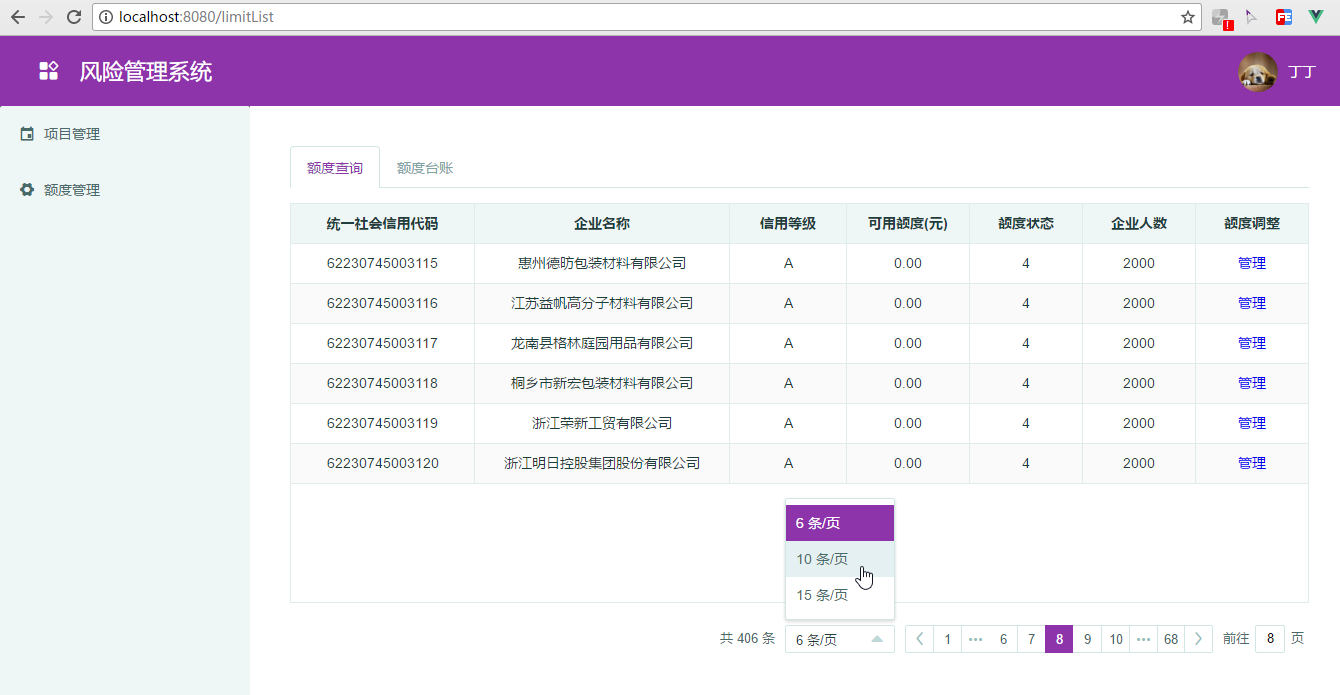
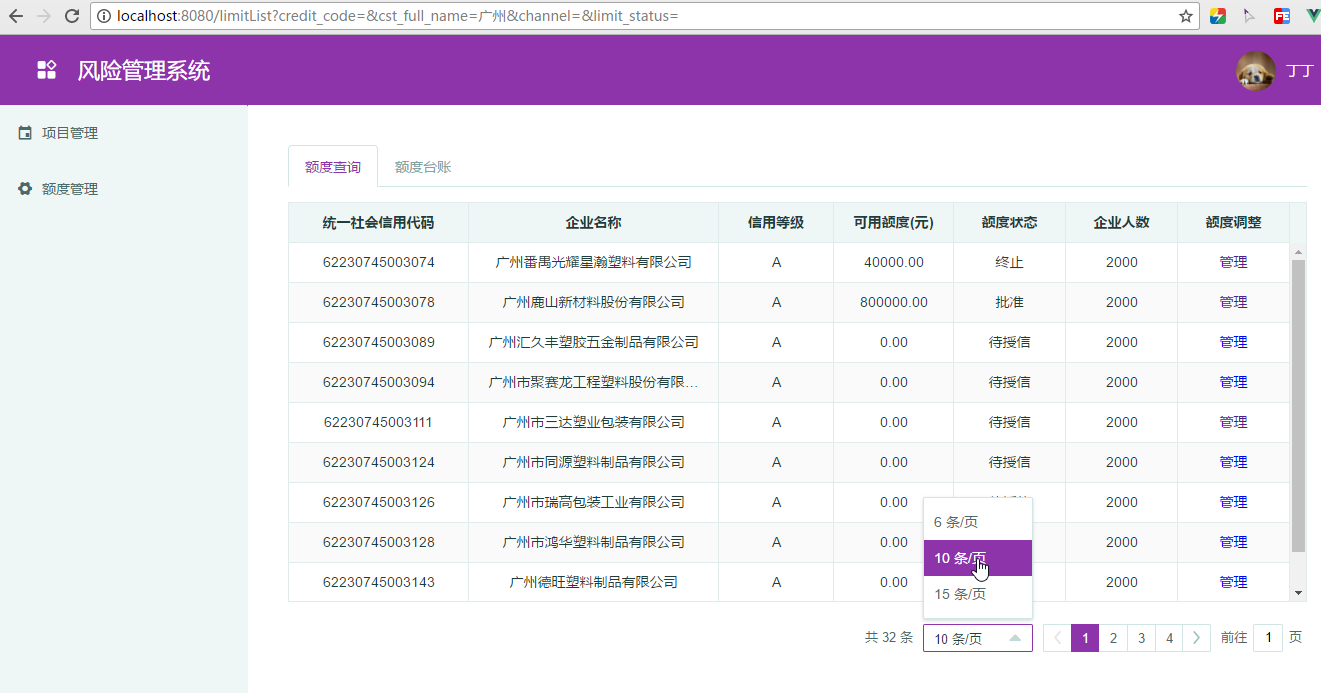
额度查询优化

diff --git a/server/controllers/limit/index.js b/server/controllers/limit/index.js
@@ -1,12 +1,14 @@
 /**
  * Created by 胡志甫 on 2017/8/15.
  */
+const _=require('lodash');
 const _model=require('../../models/action');
 const limitSequelize = require('../../models/index').t_quota;
 const cstBaseSequelize = require('../../models/index').t_cst_base_info;
 const cstViceSequelize = require('../../models/index').t_cst_vice_info;
 const channelSequelize = require('../../models/index').t_channel;
 const codeSequelize = require('../../models/index').t_code;
+
 module.exports = {
 
   init:  async function (req, res) {
@@ -20,6 +22,7 @@ module.exports = {
           required: true,
           as: 'base',
           attributes: ['id', 'cst_full_name', 'worker_amt'],
+          where: {}
         }, {
           model: cstViceSequelize,
           required: true,
@@ -28,8 +31,26 @@ module.exports = {
         }],
         attributes: ['id', 'company_id', 'available_credit', 'freezen_status',],
         limit: [(current - 1) * page_size, +page_size],
+        where: {}
+      }
+      var codeCondition= {
+        attributes:['code_value','code_name'],
+        where: {
+          code_type_cd: 'LimitStatusCd'
+        }
+      }
+      //查询条件赋值
+      req.body.credit_code && (con.where.company_id = req.body.credit_code);
+      req.body.limit_status && (con.where.freezen_status = req.body.limit_status);
+      if (req.body.cst_full_name) {
+        con.include[0].where.cst_full_name = {$like: '%' + req.body.cst_full_name + '%'}
       }
       var result = await _model.findAndCountAll(limitSequelize, con);
+      var status = await _model.findAll(codeSequelize, codeCondition);
+      result.rows=result.rows.map((item)=>{
+        item.freezen_status=_.result(_.find(status, { 'code_value': item.freezen_status+''}), 'code_name');
+        return item;
+      })
       body.result=result;
     }catch (e) {
       body.code='02';

diff --git a/src/pages/LimitManager.vue b/src/pages/LimitManager.vue
@@ -19,10 +19,10 @@
                     </el-select>
                 </el-form-item>
                 <el-form-item label="信用代码">
-                    <el-input v-model="form.channel_name"></el-input>
+                    <el-input v-model="form.credit_code"></el-input>
                 </el-form-item>
                 <el-form-item label="企业名称">
-                    <el-input v-model="form.project_name"></el-input>
+                    <el-input v-model="form.cst_full_name"></el-input>
                 </el-form-item>
                 <el-form-item label="额度状态">
                     <el-select v-model="form.limit_status" placeholder="请选择">
@@ -49,8 +49,8 @@
         data () {
             return{
                 form: {
-                    channel_name: '',
-                    project_name: '',
+                    credit_code: '',
+                    cst_full_name: '',
                     channel:'',
                     limit_status:'',
                 },
@@ -85,12 +85,12 @@
         methods:{
             onSubmit() {
                 /*this.$message.success('提交成功！');*/
-              this.$router.push('/limitList');
+              this.$router.push({path:'/limitList',query:this.form});
             },
             onReset(){
                 this.form={
-                    channel_name: '',
-                    project_name: '',
+                    credit_code: '',
+                    cst_full_name: '',
                     channel:'',
                     limit_status:'',
                 }

diff --git a/src/pages/LimitList.vue b/src/pages/LimitList.vue
@@ -8,6 +8,7 @@
             border
             stripe
             style="width: 100%"
+            empty-text="数据空空"
             height="400">
             <el-table-column
               prop="company_id"
@@ -99,7 +100,7 @@
           alert(index);
         },
         _getData(current_page,page_size){
-          api.GetLimits({current_page,page_size})
+          api.GetLimits({current_page,page_size,...this.$route.query})
             .then(res => {
               if(res.code=='01'){
                 this.tableData=res.result.rows;

diff --git a/README.md b/README.md
@@ -6,7 +6,7 @@
 * ### 前端技术
 vue2 + vuex + vue-router + webpack + ES6/7 + axios + stylus + element-ui
 * ### node技术
-nodejs + express4 + session + sequelize +mysql
+nodejs + express4 + session + sequelize + mysql + lodash.js
 
 ## 效果演示
 
@@ -28,10 +28,10 @@ nodejs + express4 + session + sequelize +mysql
 # 安装依赖
 npm install
 
-# 启动vue前端项目
+# 启动vue前端项目(http://localhost:8080/...)
 npm run dev
 
-# 启动node后端项目
+# 启动node后端项目(http://localhost:8081/...)
 npm run start
 
 
